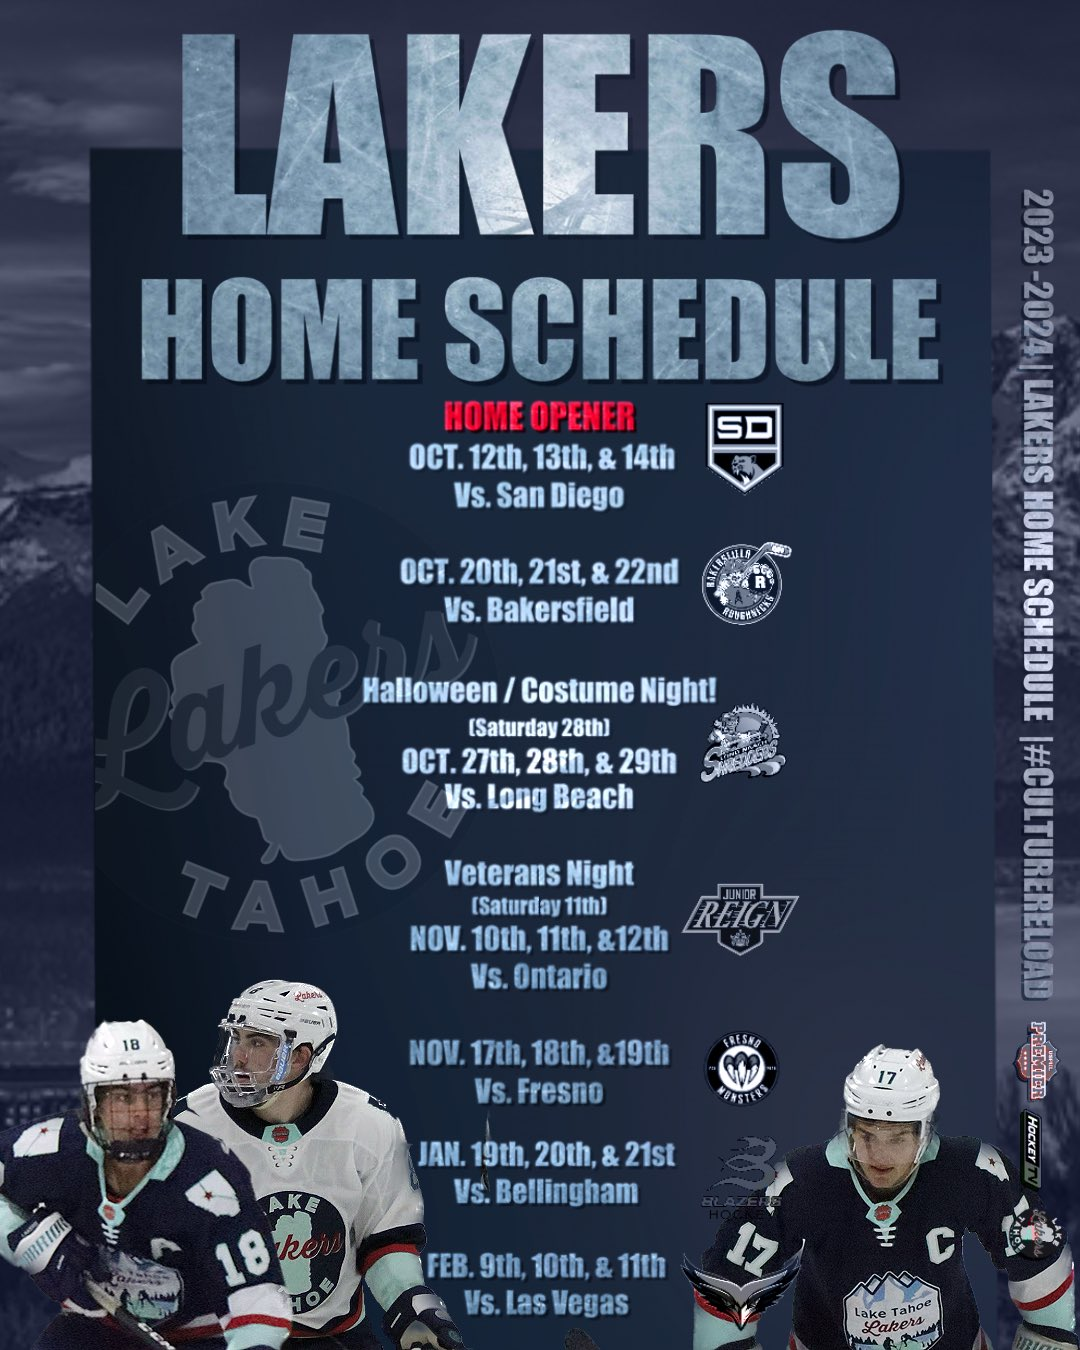
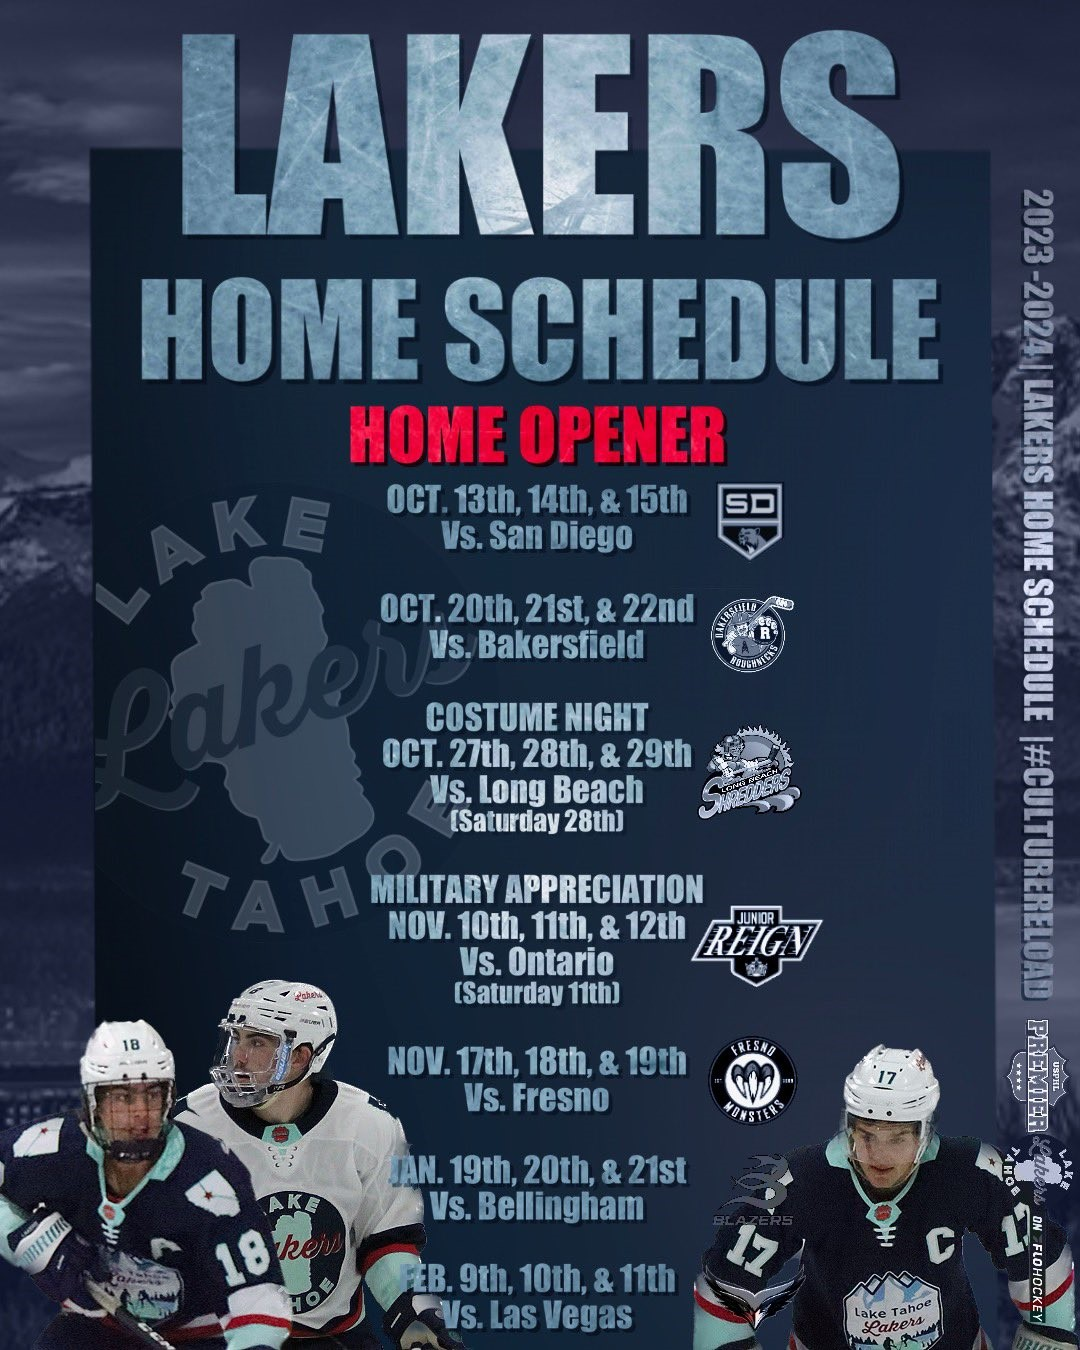
Changed yolkify to typescript, updated lakers schedule

Changed region(s): [[0.3056, 0.28, 0.7639, 1.0], [0.9167, 0.7467, 1.0, 0.9956]]

diff --git a/src/Components/ProjectsCollapsable/index.js b/src/Components/ProjectsCollapsable/index.js
@@ -3,6 +3,7 @@ import "./styles.css";
 import HTMLLogo from "../../Assets/html5.png";
 import CSSLogo from "../../Assets/CSS3.png";
 import JSLogo from "../../Assets/JS.png";
+import TSLogo from "../../Assets/ts.png";
 import ReactLogo from "../../Assets/React.png";
 import ReactNativeLogo from "../../Assets/ReactNative.png";
 import NodeJSLogo from "../../Assets/NodeJS.png";
@@ -85,7 +86,7 @@ const ProjectsCollapsable = () => {
                 <img width={60} src={ReactNativeLogo} />
               </div>
               <div className="technology-logo">
-                <img width={50} src={JSLogo} />
+                <img width={50} src={TSLogo} />
               </div>
               <div className="technology-logo">
                 <img width={60} src={CSSLogo} />
@@ -102,7 +103,7 @@ const ProjectsCollapsable = () => {
           <div className="skill-name-holder-grid">
             {/* <div className="skill-name-column"> */}
             <p className="skill-name-grid">React Native</p>
-            <p className="skill-name-grid">Javascript</p>
+            <p className="skill-name-grid">Typesript</p>
             <p className="skill-name-grid">CSS</p>
             <p className="skill-name-grid">Mongodb</p>
             <p className="skill-name-grid">Realm</p>
